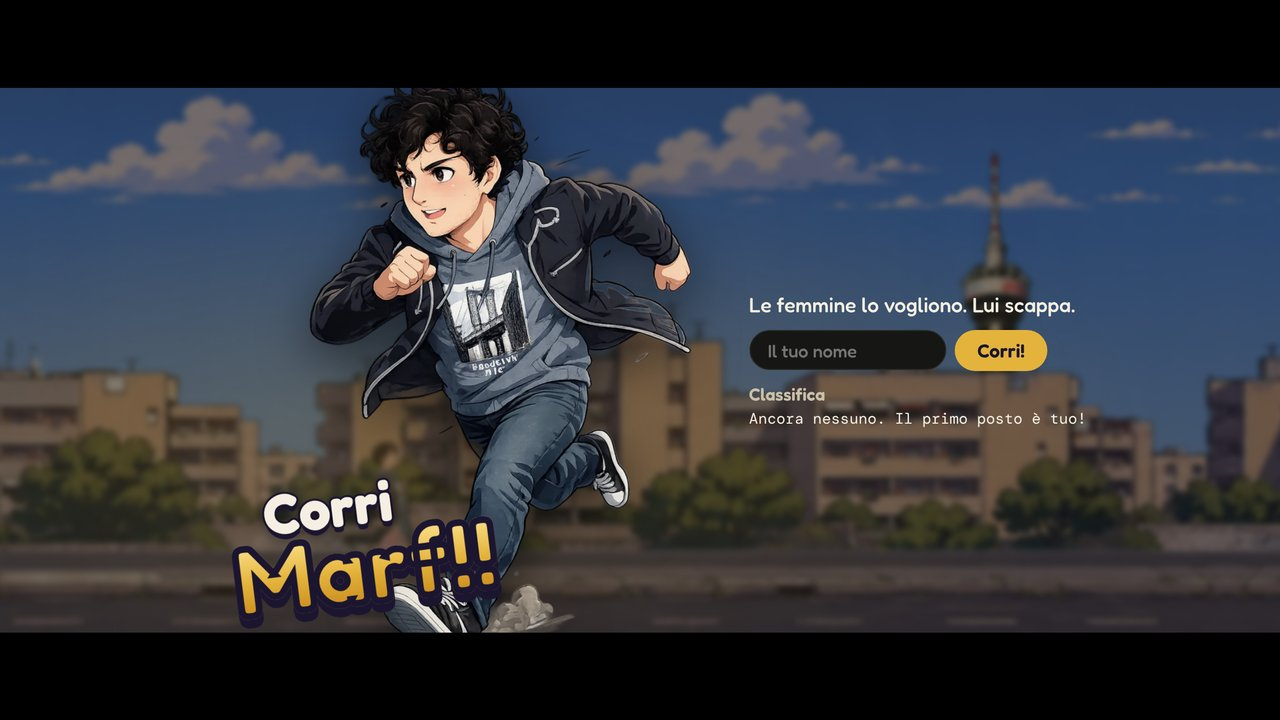
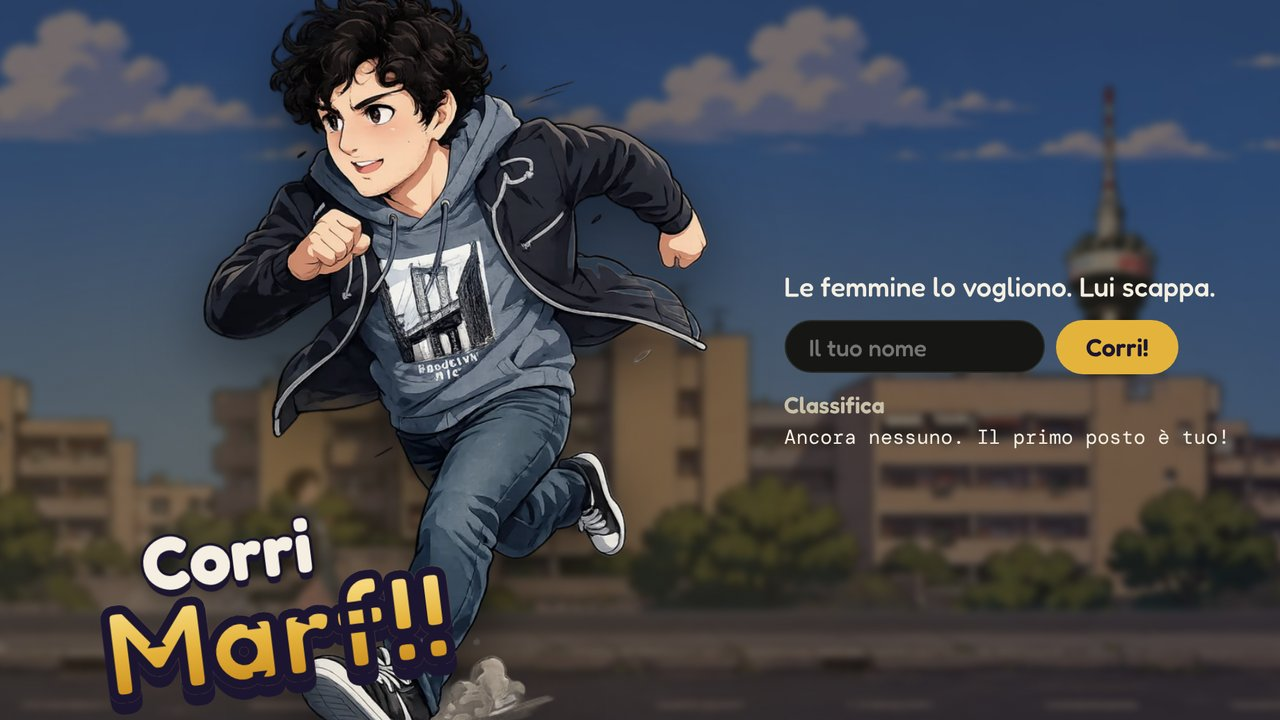
Home: copertina di Corri Marf! zoomata per riempire tutta la card
Claude-Session: https://claude.ai/code/session_017AfdJjPRYm7AhKZz7XGFBU

diff --git a/index.html b/index.html
@@ -370,7 +370,7 @@
 
 <noscript><p style="padding:2rem;font-family:monospace">Per vedere i contenuti serve JavaScript attivo.</p></noscript>
 
-<script src="contenuti.js?v=9"></script>
+<script src="contenuti.js?v=10"></script>
 <!-- classifiche dei giochi: se un file non c'è ancora, la sua scheda invita a giocare -->
 <script src="giochi/bisca-del-tromba/classifica.js?v=3" onerror="window.BiscaClassifica = null"></script>
 <script src="giochi/corri-marf/classifica.js?v=1" onerror="window.CorriMarfClassifica = null"></script>

diff --git a/contenuti.js b/contenuti.js
@@ -32,7 +32,7 @@ const CONTENUTI = {
       descrizione: "Allora, è un gioco stra mega divertente perché c'è Marf che corre e scappa dalle femmine.",
       tag: ['Follia', 'Divertimento', 'Wow'],
       link: 'giochi/corri-marf/',
-      immagine: 'giochi/corri-marf/copertina.jpg?v=2',
+      immagine: 'giochi/corri-marf/copertina.jpg?v=3',
       inEvidenza: true,
     },
     {

diff --git a/musica/index.html b/musica/index.html
@@ -152,7 +152,7 @@
 
 <audio id="audio" preload="metadata"></audio>
 
-<script src="../contenuti.js?v=9"></script>
+<script src="../contenuti.js?v=10"></script>
 <script>
 /*
  * Player musicale: legge i brani da contenuti.js (sezione musica).

diff --git a/video/index.html b/video/index.html
@@ -114,7 +114,7 @@
   <div id="grid"></div>
 </section>
 
-<script src="../contenuti.js?v=9"></script>
+<script src="../contenuti.js?v=10"></script>
 <script>
 /*
  * Pagina Video: legge i video da contenuti.js.
